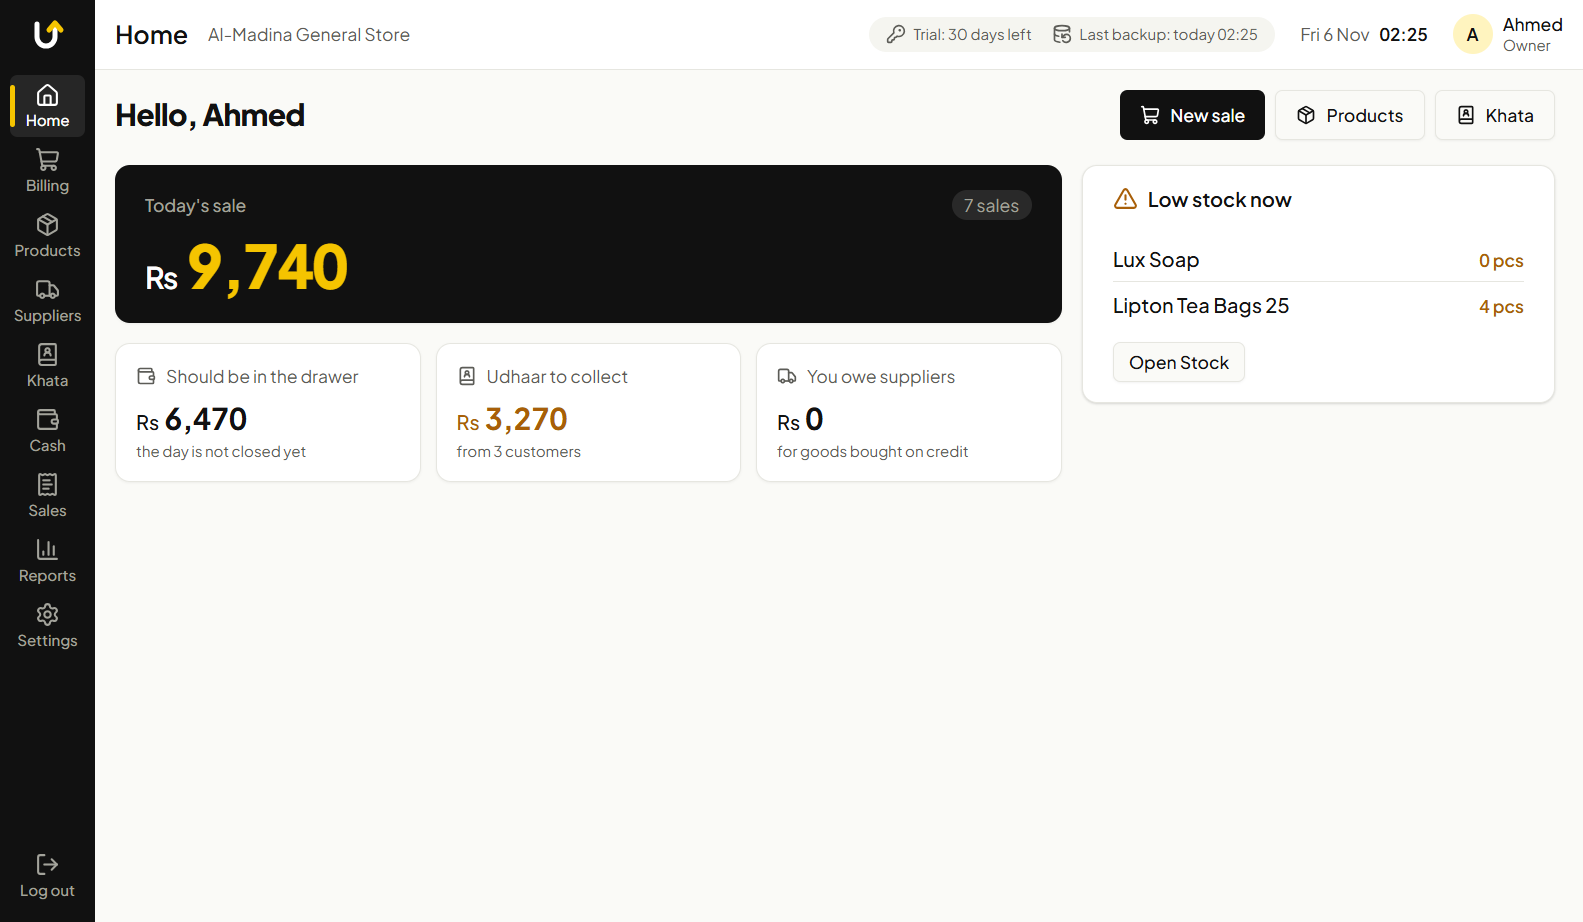
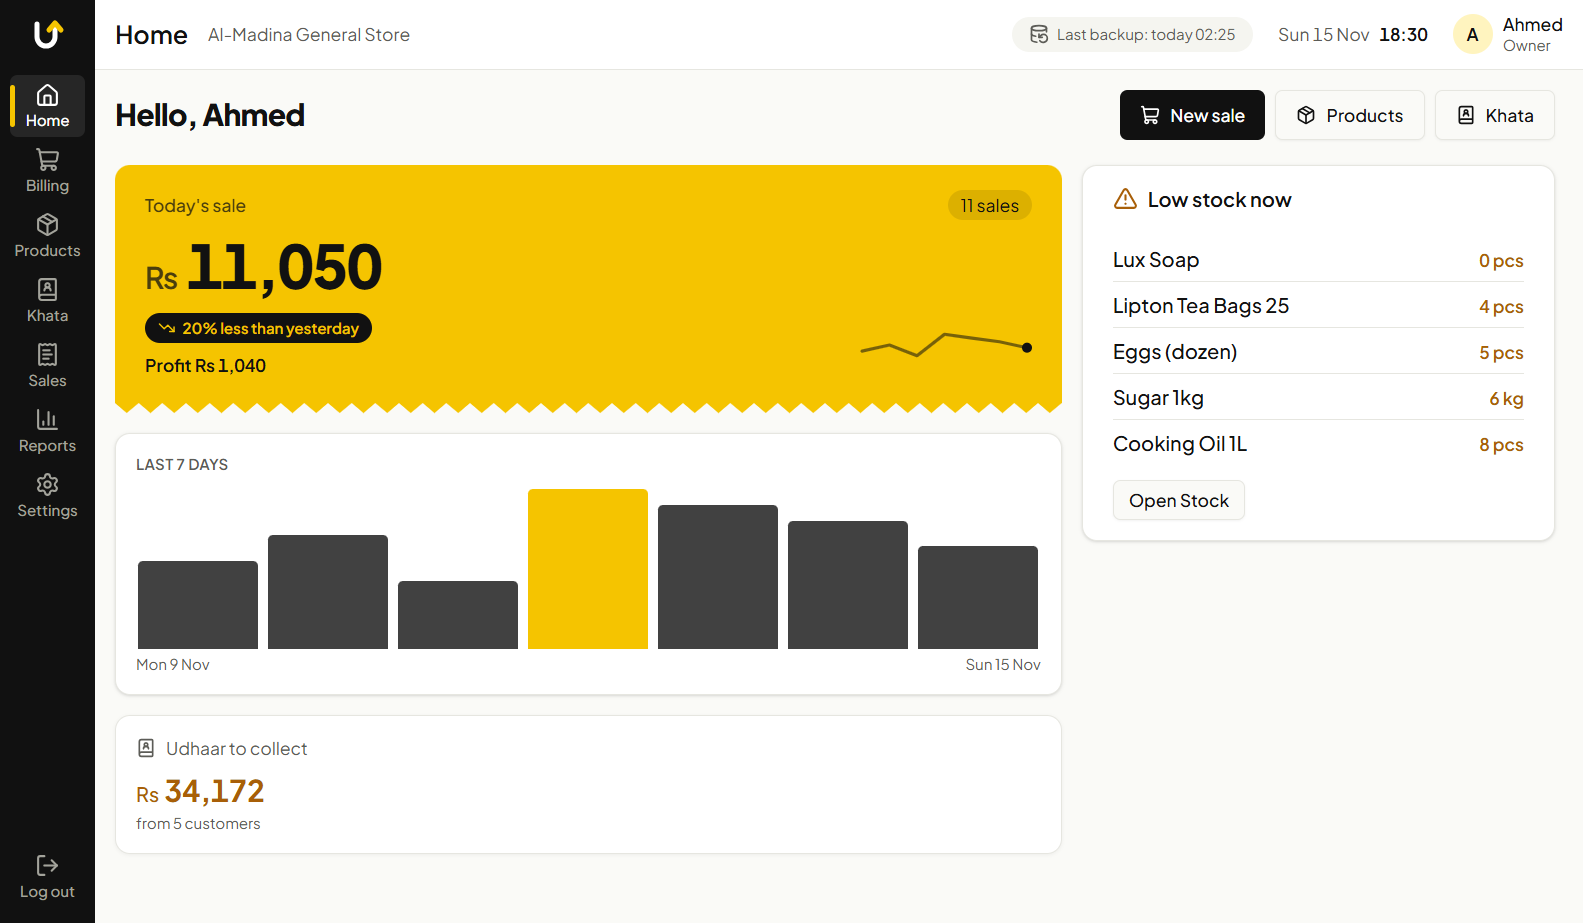
README: new screenshots (light and dark), charts, dark look, counters, Cloud and the owner phone app

diff --git a/README.md b/README.md
@@ -5,7 +5,10 @@ stores, medical stores and the like. It runs on a Windows PC, works fully
 **offline**, and keeps all of the shop's data on that PC. No internet, server
 or monthly fee is needed to sell.
 
-The screens and the receipt can be in **English or Urdu**.
+The screens and the receipt can be in **English or Urdu**, in a light or a **dark** look.
+
+Selling never needs the internet. A shop that wants it can also switch on the optional **Cloud** (Settings > Cloud),
+so that the owner can read the shop's sales, udhaar and stock on an **Android phone**. See "Cloud and the owner's phone" below.
 
 **Website:** [pos.up24solutions.com](https://pos.up24solutions.com/) has the full details and features of Up24 Sale System.
 
@@ -13,12 +16,16 @@ The screens and the receipt can be in **English or Urdu**.
 
 | | |
 | --- | --- |
-| ![Home: today's sale, udhaar and low stock](docs/screenshots/02-home.png) | ![Billing with quick buttons and change](docs/screenshots/03-billing.png) |
-| **Home**: today's sale first, first steps and alerts at the side | **Billing**: scan or tap, the change is shown big |
-| ![Products with stock and prices](docs/screenshots/04-products.png) | ![Khata: a customer's udhaar and payments](docs/screenshots/05-khata.png) |
-| **Products**: stock, prices, quick buttons | **Khata**: udhaar, payments, WhatsApp reminder |
-| ![Sales of a day with the receipt](docs/screenshots/06-sales.png) | ![Reports: sales, cash and profit](docs/screenshots/07-reports.png) |
-| **Sales**: every bill, reprint, cancel | **Reports**: sales, cash, udhaar and profit |
+| ![Home: today's sale on a till roll, the week, udhaar and low stock](docs/screenshots/02-home.png) | ![Billing: items, the total and the change](docs/screenshots/03-billing.png) |
+| **Home**: today's sale first, compared with yesterday, the last 7 days, low stock | **Billing**: scan or type, the change is shown big |
+| ![Products with stock and prices](docs/screenshots/04-products.png) | ![Khata: how old the udhaar is, a customer's payments](docs/screenshots/05-khata.png) |
+| **Products**: stock, prices, low-stock warnings | **Khata**: udhaar by age, payments, WhatsApp reminder |
+| ![Sales of a day with the receipt](docs/screenshots/06-sales.png) | ![Reports: sales, how it was paid, profit](docs/screenshots/07-reports.png) |
+| **Sales**: every bill, reprint, cancel | **Reports**: sales, how it was paid, profit, charts |
+| ![Home in the dark look](docs/screenshots/08-home-dark.png) | ![Reports in the dark look](docs/screenshots/09-reports-dark.png) |
+| **Dark look**: Settings > Look, "Like Windows", "Light" or "Dark" | The same charts in the dark |
+
+The pictures show a made-up shop (Al-Madina General Store) with made-up sales.
 
 ## Download
 
@@ -77,10 +84,16 @@ Needs Windows 10 or 11 (64-bit).
 - Suppliers: purchases, purchase orders (sent on WhatsApp or printed, turned
   into a purchase when the goods arrive) and what the shop owes
 - Daily, monthly and profit reports, export to Excel, daily summary on WhatsApp
+- Charts without extra software: today's sale against yesterday and the last 7 days, how it was paid (cash, digital, udhaar), the busy hours of the day, profit for each day, what to order again (how many days it will last), and what has stopped selling and the money tied up in it
+- Khata shows how old each udhaar is (up to 30 days, 31 to 60, 61 to 90, over 90)
 
 **Easy to start**
 - A tour of the screens for a new shop (again from Settings > About), and a "What is new" window after every update
 - Settings > Features: switch on only what your shop uses
+- Settings > Look: a colour, the shop's logo, larger text, and a light or dark look ("Like Windows" by default; the choice is for each computer)
+
+**More than one computer**
+- Counters: other PCs of the shop can sell through the main PC over the shop's own network (Settings > Counters), each with its own login. The main PC keeps the data.
 
 **Safe data**
 - Two kinds of users: owner and cashier. Only the owner can cancel sales,
@@ -94,6 +107,20 @@ Needs Windows 10 or 11 (64-bit).
 
 Features a shop does not need (wholesale, tax, sizes and colors, suppliers...)
 can be switched off in **Settings > Features**.
+
+## Cloud and the owner's phone (optional)
+
+The offline app above is the whole product. A shop can add the **Cloud** from **Settings > Cloud**: the shop's PC then sends its
+sales, stock and khata to the shop's own space on the Up24 server, and keeps selling if the internet goes away.
+It is the same installer and the same version, switched on or off by the shop.
+
+With the Cloud on, the owner can use the **owner phone app** (Android, an APK that the developer hands out; there is no store). It reads the shop, it does not sell:
+- Today: the day's sale, how it compares, a month view with the profit after expenses, the day's report on WhatsApp or as a PDF (English or Urdu, never with the profit)
+- Bills in full, udhaar with how old each is, suppliers and what the shop owes them
+- Stock: what is low, what to order, what has stopped selling, what is about to expire; a product's prices and how it sold
+- Scan a barcode with the camera, and count the stock of a product (asks for the PIN again; the main PC gets the count like any other)
+- More than one shop on one phone, a copy of what was last read (so it opens with no signal), an evening notice with the day's sales, a PIN lock, light or dark, English or Urdu
+- The phone is told of a new version by the server and installs it over the old one
 
 ## Updates
 
@@ -109,6 +136,8 @@ publisher.
 
 The app runs free for 10 days (15 for shops that were already using it before the change). After that it needs a license key, entered in
 **Settings > License**. Contact the developer for a key.
+
+A key can also carry a last day for updates; releases made after it are not installed (the app keeps working).
 
 When a license ends, selling stops but the shop's data stays fully readable,
 and backups keep working.
